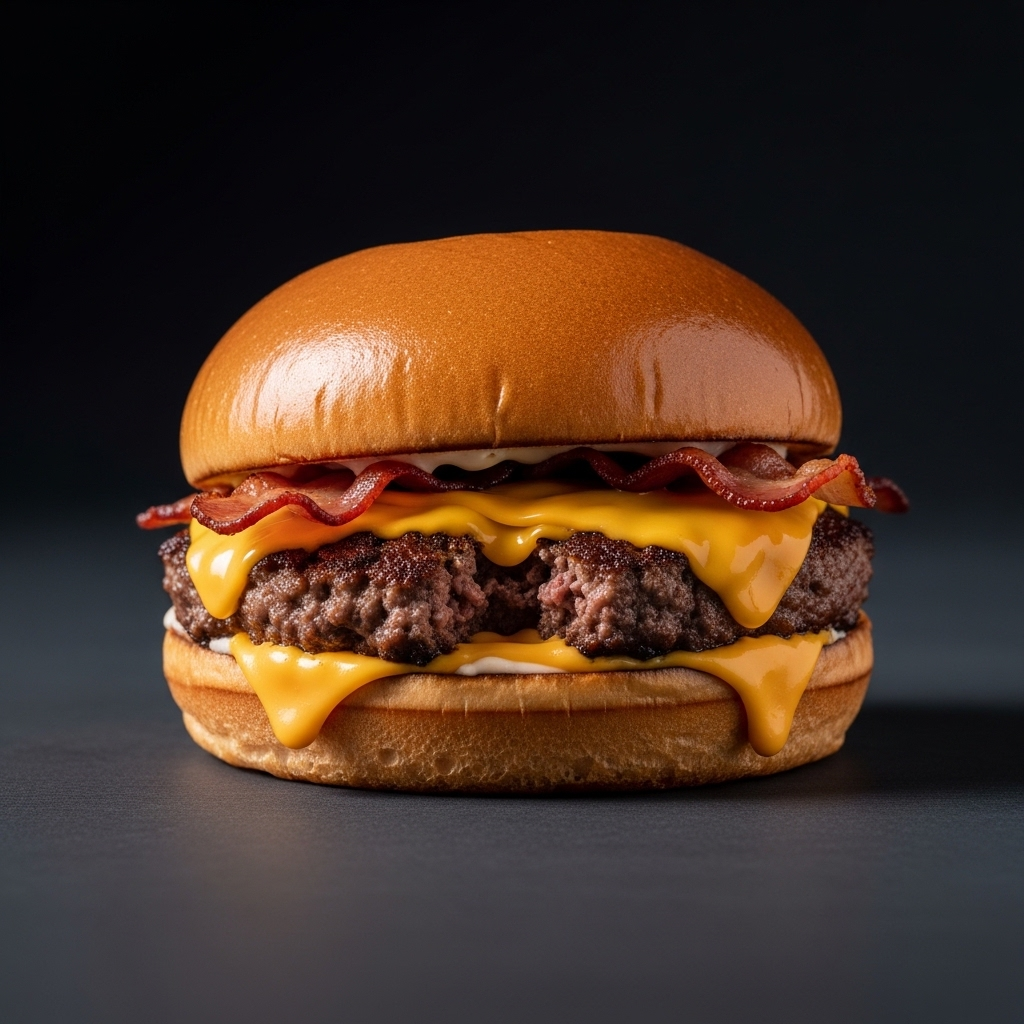
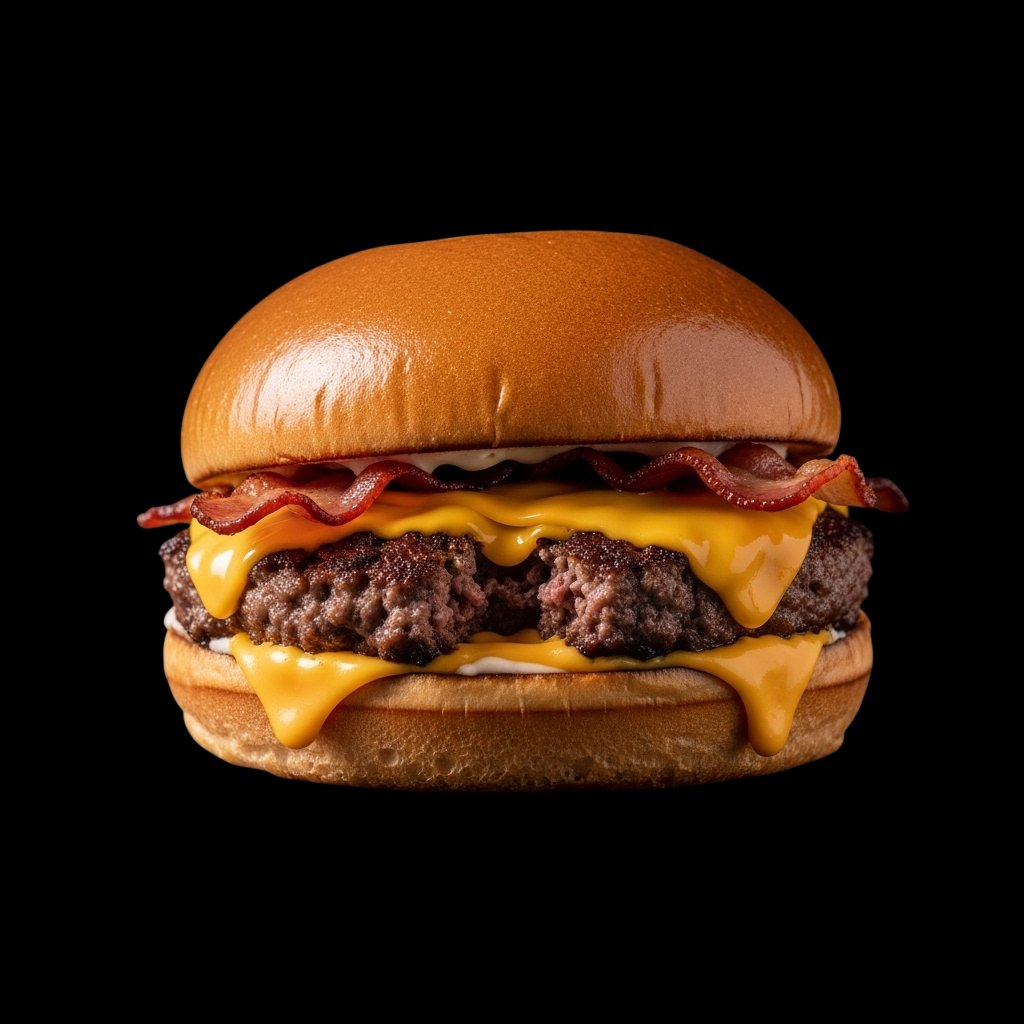
Smash Burguers adjust

diff --git a/app/globals.css b/app/globals.css
@@ -220,14 +220,60 @@ nav.scrolled {
 
 /* RIGHT — burger visual */
 .hero-visual { position: relative; display: flex; align-items: center; justify-content: center; }
-.burger-wrap { position: relative; width: 100%; max-width: 500px; margin: 0 auto; }
+.burger-wrap { position: relative; width: 100%; max-width: 520px; margin: 0 auto; }
+
+/* Multi-layer glow behind burger */
+.burger-glow-outer {
+  position: absolute; inset: -30%; z-index: 0; border-radius: 50%; pointer-events: none;
+  background: radial-gradient(circle, rgba(255,107,26,.22) 0%, rgba(255,184,48,.10) 40%, transparent 70%);
+  animation: burger-float 5s ease-in-out infinite;
+  filter: blur(18px);
+}
+.burger-glow-inner {
+  position: absolute; inset: -8%; z-index: 1; border-radius: 50%; pointer-events: none;
+  background: radial-gradient(circle, rgba(255,184,48,.14) 0%, transparent 65%);
+  animation: burger-float 5s ease-in-out infinite;
+  animation-delay: -.5s;
+}
+
+/* Decorative rings */
+.burger-ring-1 {
+  position: absolute; inset: -18%; z-index: 1; border-radius: 50%; pointer-events: none;
+  border: 1px solid rgba(255,107,26,.14);
+  animation: ring-spin-cw 20s linear infinite;
+}
+.burger-ring-1::before {
+  content: ''; position: absolute; inset: 12%;
+  border: 1px dashed rgba(255,184,48,.09); border-radius: 50%;
+}
+.burger-ring-2 {
+  position: absolute; inset: -32%; z-index: 0; border-radius: 50%; pointer-events: none;
+  border: 1px solid rgba(255,107,26,.07);
+  animation: ring-spin-ccw 30s linear infinite;
+}
+@keyframes ring-spin-cw  { from { transform: rotate(0deg); }   to { transform: rotate(360deg); } }
+@keyframes ring-spin-ccw { from { transform: rotate(0deg); }   to { transform: rotate(-360deg); } }
+
+/* Floating spark dots */
+.burger-spark {
+  position: absolute; z-index: 5; pointer-events: none;
+  width: 6px; height: 6px; border-radius: 50%;
+  background: var(--yellow);
+  box-shadow: 0 0 8px rgba(255,184,48,.8);
+}
+.burger-spark:nth-child(1) { top: 10%; right: 8%;  animation: spark-float 3.2s ease-in-out infinite; }
+.burger-spark:nth-child(2) { top: 25%; right: -4%; animation: spark-float 4.1s ease-in-out infinite; animation-delay: -.8s; width: 4px; height: 4px; background: var(--orange); }
+.burger-spark:nth-child(3) { bottom: 22%; left: 2%; animation: spark-float 3.7s ease-in-out infinite; animation-delay: -1.5s; width: 5px; height: 5px; }
+.burger-spark:nth-child(4) { top: 55%; right: -6%; animation: spark-float 4.5s ease-in-out infinite; animation-delay: -.3s; width: 4px; height: 4px; }
+@keyframes spark-float { 0%,100% { transform: translateY(0) scale(1); opacity: .7; } 50% { transform: translateY(-14px) scale(1.3); opacity: 1; } }
 
 .burger-img {
   position: relative; z-index: 2; width: 100%; height: auto; display: block;
-  filter: drop-shadow(0 30px 60px rgba(255,107,26,.38)) drop-shadow(0 10px 24px rgba(0,0,0,.7));
+  border-radius: 50%;
+  filter: drop-shadow(0 40px 80px rgba(255,107,26,.55)) drop-shadow(0 12px 28px rgba(0,0,0,.8));
   animation: burger-float 5s ease-in-out infinite;
 }
-@keyframes burger-float { 0%,100% { transform: translateY(0); } 50% { transform: translateY(-12px); } }
+@keyframes burger-float { 0%,100% { transform: translateY(0); } 50% { transform: translateY(-14px); } }
 
 .badge-off {
   position: absolute; top: 6%; right: -6%; z-index: 4;
@@ -290,10 +336,10 @@ section { padding: 96px 6%; }
   padding: 4px 12px; border-radius: 50px; z-index: 2;
 }
 
-.mv-img { height: 210px; overflow: hidden; position: relative; background: var(--black); }
-.mv-img::after { content: ''; position: absolute; inset: 0; background: linear-gradient(to top, rgba(22,22,22,.65) 0%, transparent 50%); }
-.mv-img img { width: 100%; height: 100%; object-fit: cover; object-position: center; transition: transform .5s; }
-.mv-card:hover .mv-img img { transform: scale(1.06); }
+.mv-img { height: 260px; overflow: hidden; position: relative; background: var(--black); display: flex; align-items: center; justify-content: center; padding: 16px 12px 8px; }
+.mv-img::after { content: ''; position: absolute; inset: 0; background: linear-gradient(to top, rgba(22,22,22,.55) 0%, transparent 45%); pointer-events: none; }
+.mv-img img { width: 90%; height: 100%; object-fit: contain; object-position: center; transition: transform .5s; display: block; }
+.mv-card:hover .mv-img img { transform: scale(1.05) translateY(-4px); }
 
 .mv-body { padding: 22px 22px 24px; flex: 1; display: flex; flex-direction: column; }
 .mv-name { font-family: 'Bebas Neue', sans-serif; font-size: 1.6rem; letter-spacing: .06em; color: var(--white); margin-bottom: 6px; }

diff --git a/app/page.js b/app/page.js
@@ -135,6 +135,14 @@ export default function Home() {
           {/* RIGHT */}
           <div className="hero-visual reveal" style={{ transitionDelay: '.22s' }}>
             <div className="burger-wrap">
+              <div className="burger-glow-outer" />
+              <div className="burger-glow-inner" />
+              <div className="burger-ring-1" />
+              <div className="burger-ring-2" />
+              <span className="burger-spark" />
+              <span className="burger-spark" />
+              <span className="burger-spark" />
+              <span className="burger-spark" />
               <img src="/hero-burger.png" alt="Smash Burger Premium" className="burger-img" />
               <div className="badge-off">
                 <span className="badge-off-label">Hoje</span>
